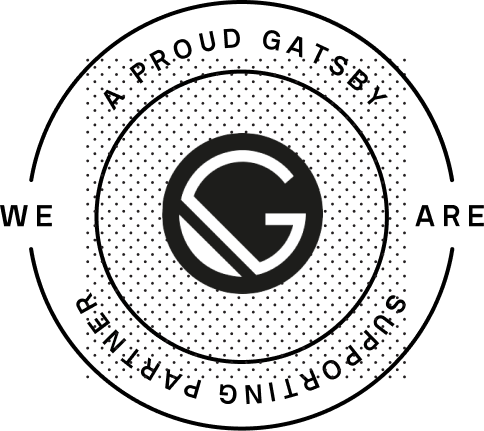
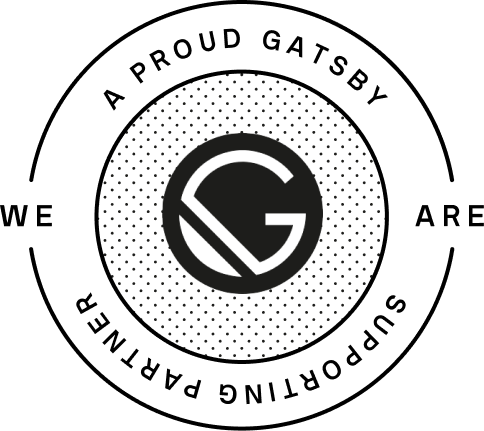
Update badge images

Changed region(s): [[0.186, 0.1508, 0.8368, 0.8445], [0.7128, 0.7541, 0.8368, 0.8445], [0.186, 0.7842, 0.2169, 0.8445]]

diff --git a/src/pages/partners/index.js b/src/pages/partners/index.js
@@ -6,7 +6,7 @@ import styled from '@emotion/styled';
 import Layout from '../../components/layout';
 import FullWidthSection from '../../components/FullWidthSection';
 import { mediaQueries } from '../../styles';
-import DrupalBadge from '../../../static/images/drupal-badge.svg';
+import DrupalBadge from '../../../static/images/drupal-badge.png';
 import AcquiaBadge from '../../../static/images/acquia-badge.svg';
 import ShopifyBadge from '../../../static/images/shopify-badge.svg';
 import GatsbyBadge from '../../../static/images/gatsby-badge.png';
@@ -78,7 +78,7 @@ const Partners = () => {
     }
 
     img {
-      max-width: 180px;
+      width: 180px;
       height: auto;
     }
   `;
